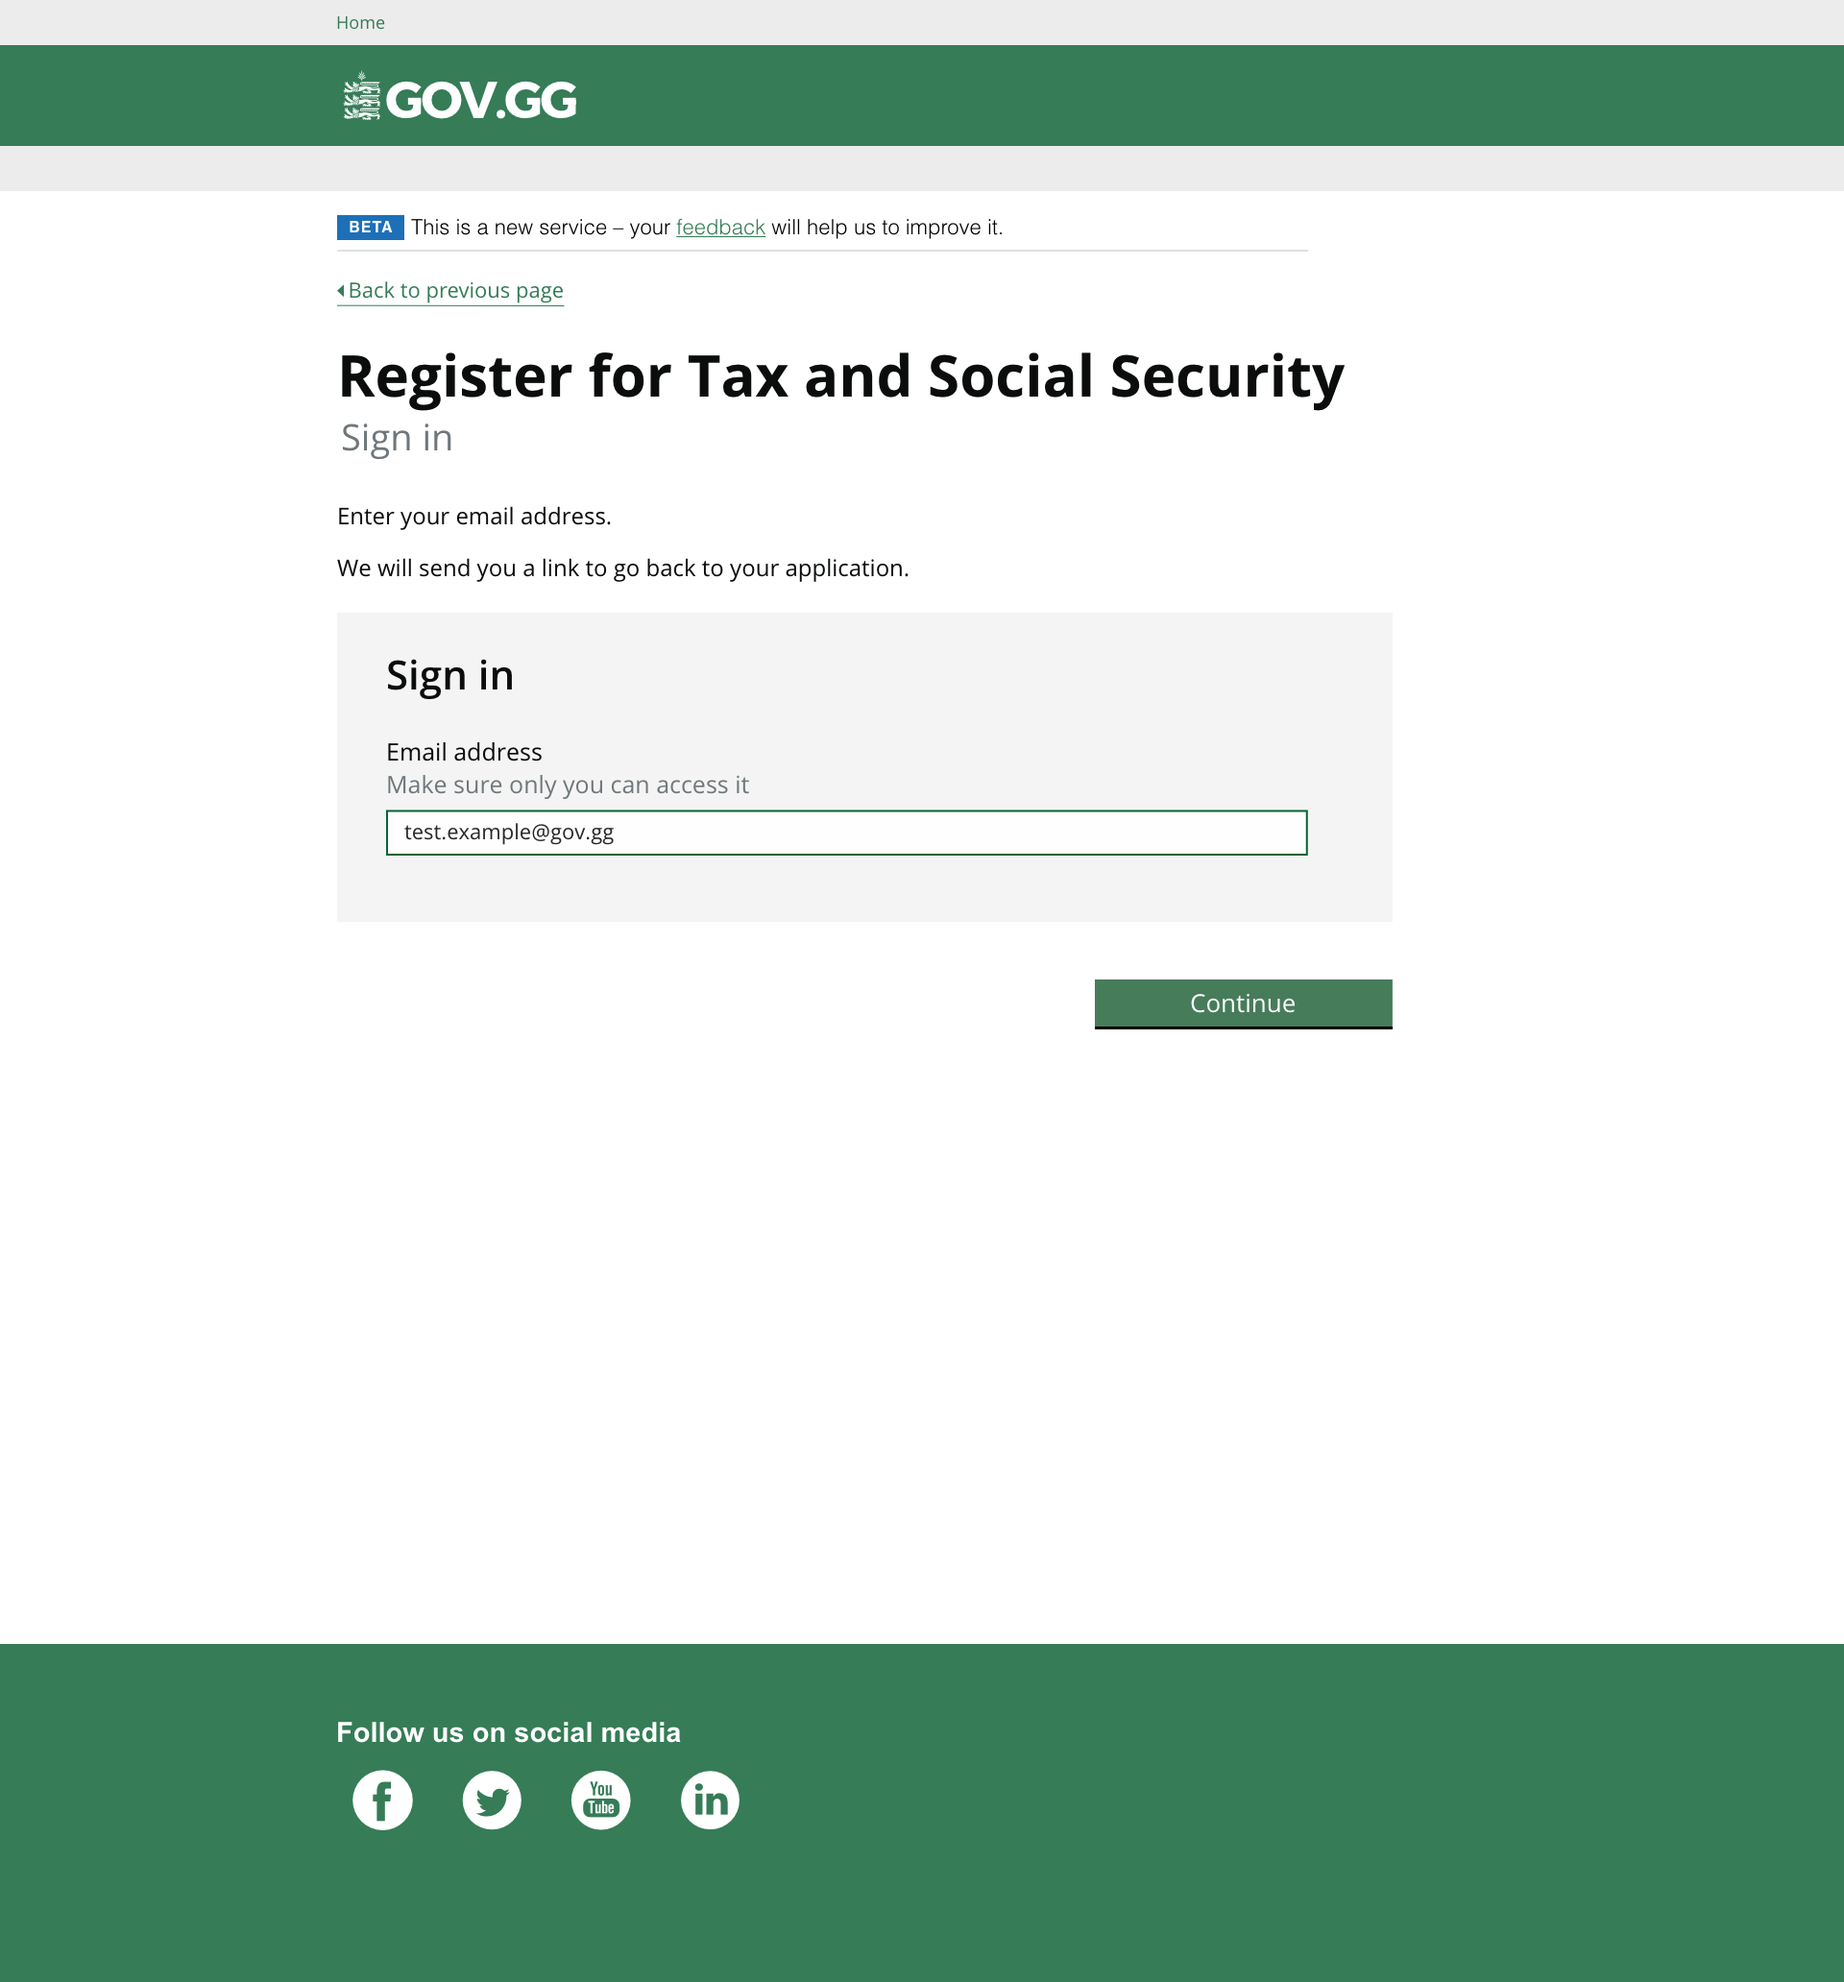
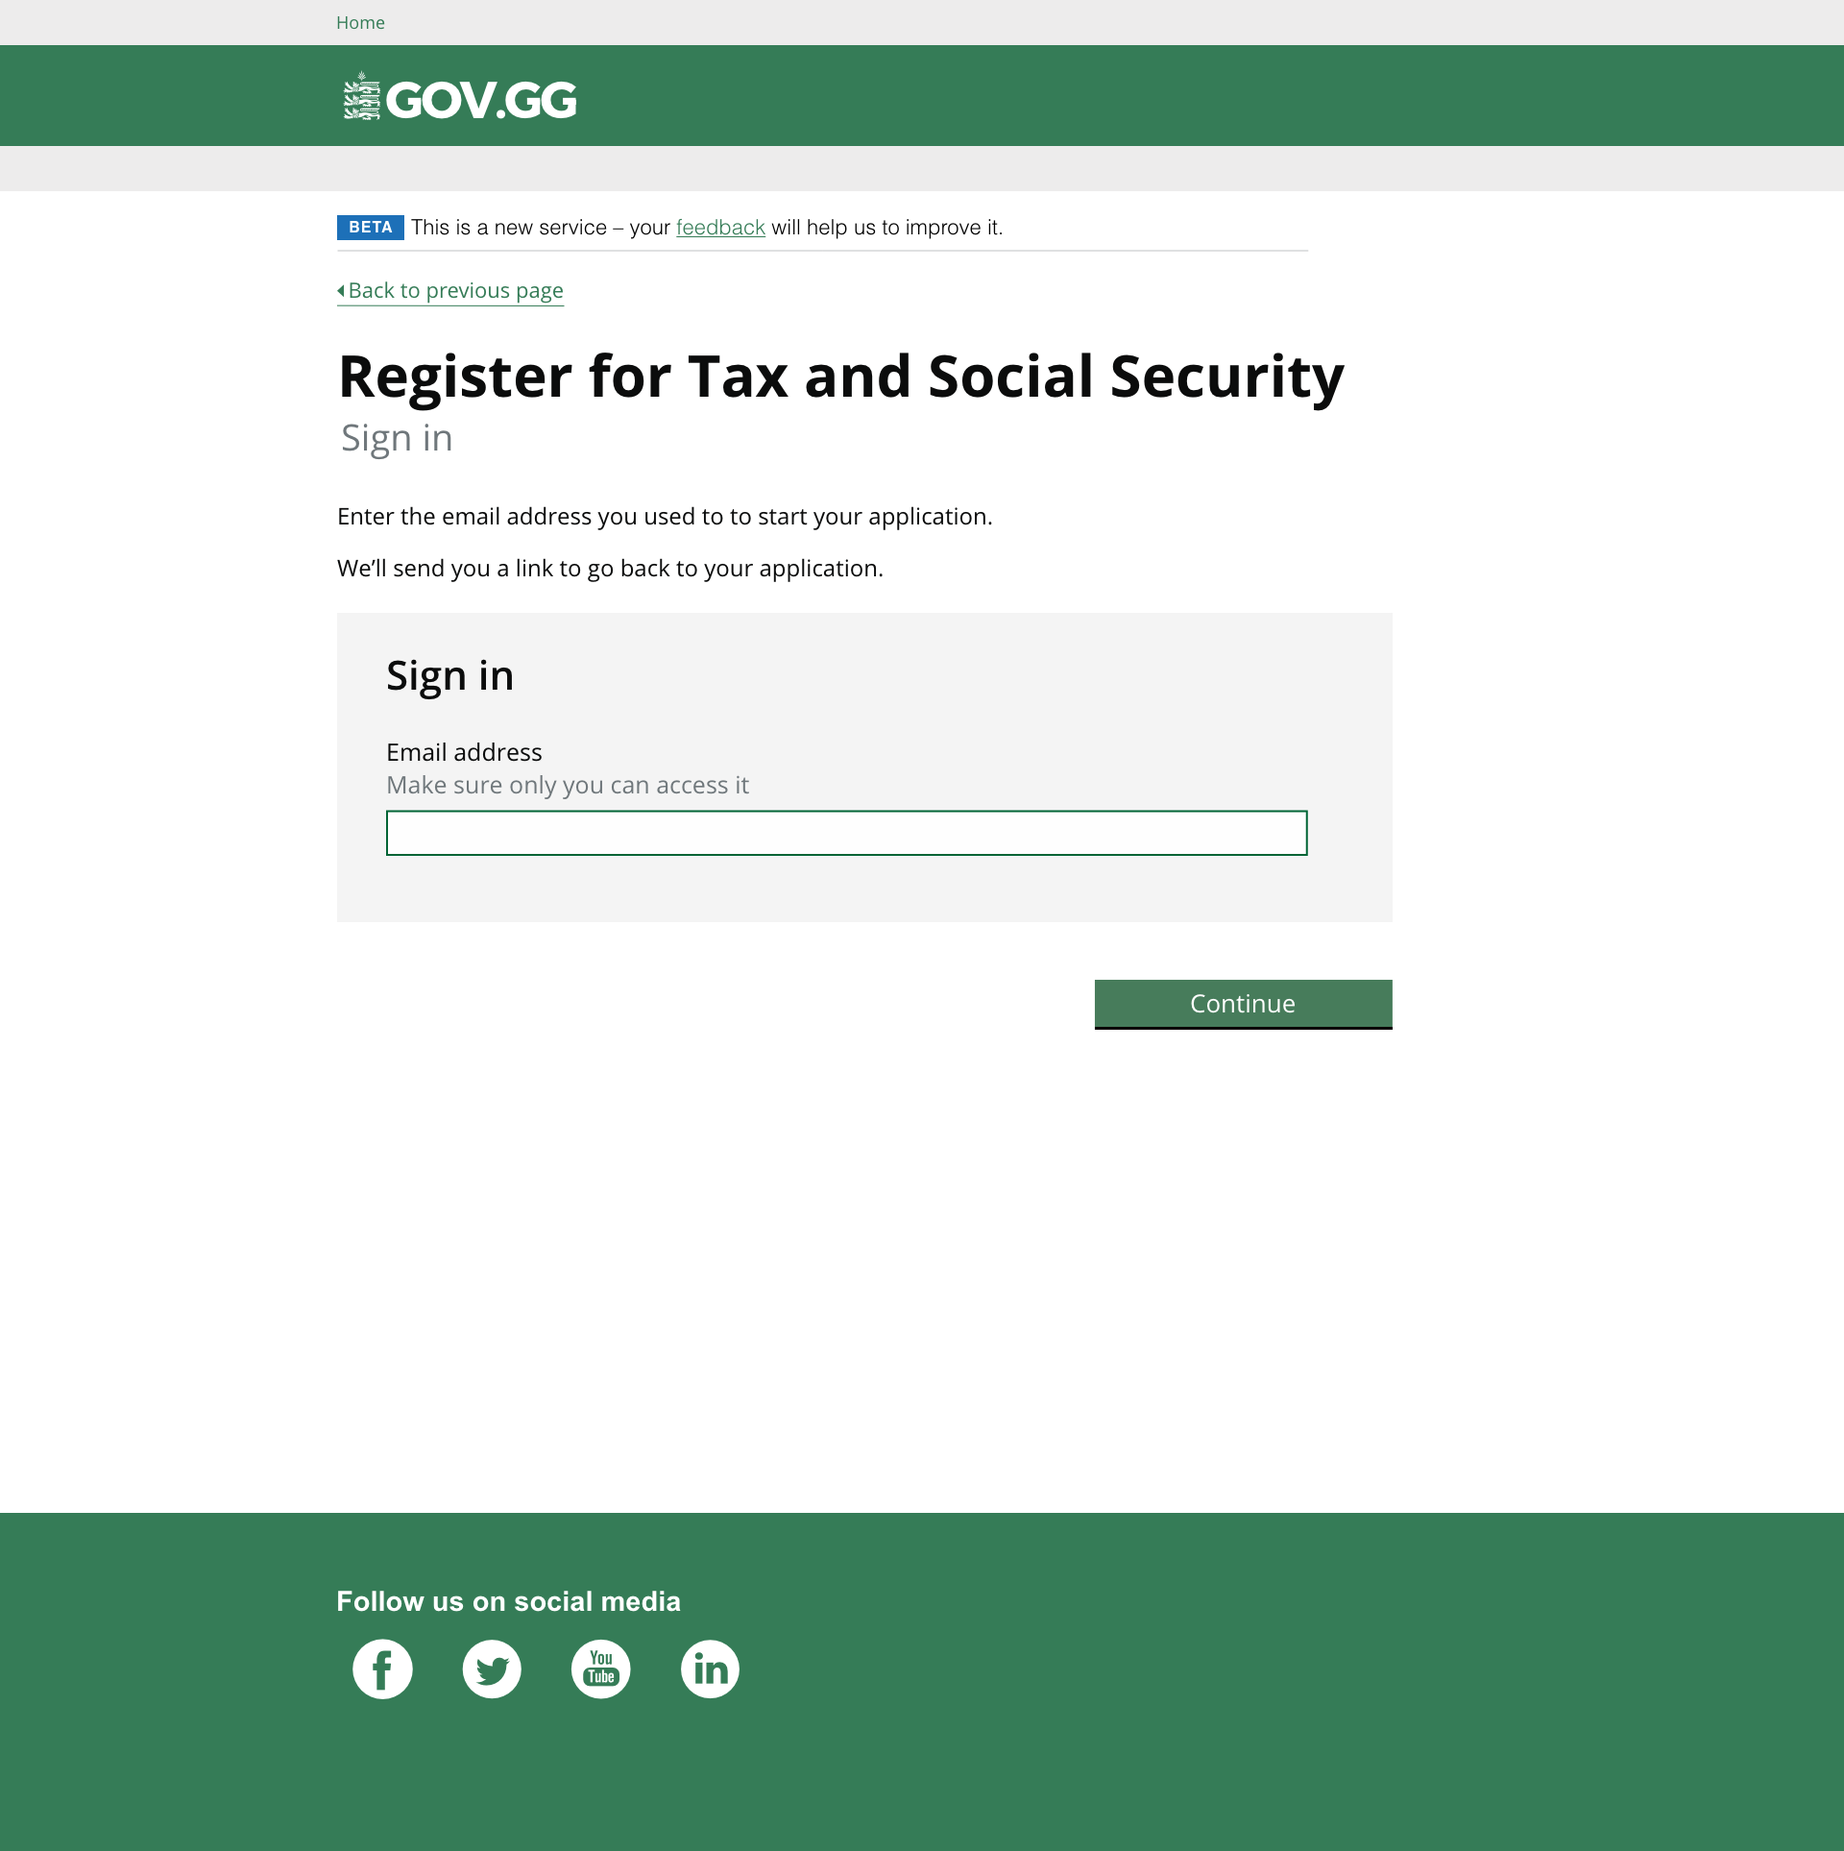
update sign in process

Changed region(s): [[0.0, 0.0, 1.0, 0.4359], [0.0, 0.8095, 1.0, 0.9341], [0.5938, 0.467, 0.7812, 0.5605]]

diff --git a/exemplar/1/data.js b/exemplar/1/data.js
@@ -114,19 +114,13 @@ var data = {
       "caption": "Save and come back",
       "imgref": "images/3.task-list.png"
     },{
-      "caption": "Enter your email",
-      "imgref": "images/2.Enter-email-address.png",
+      "caption": "Application saved",
+      "imgref": "images/application_saved.png",
       "note": "REG-CBL-01"
-    },{
-      "caption": "Check your email",
-      "imgref": "images/3.Check-your-email.png"
-    },{
-      "caption": "Link sent",
-      "imgref": "images/4.Link-sent.png"
     }]
   },
   {
-    "title": "Go back to your application",
+    "title": "Go back to your application - sign in, active link",
     "path": [{
       "caption": "Start page",
       "imgref": "images/1.start-page.png"
@@ -137,14 +131,57 @@ var data = {
       "caption": "Sign in",
       "imgref": "images/3.sign-in.png",
     },{
-      "caption": "Link sent",
-      "imgref": "images/link-sent-v0.3.png"
+      "caption": "Check email",
+      "imgref": "images/check_email.png"
     },{
-      "caption": "Email resent",
-      "imgref": "images/5.email-resent.png"
+      "caption": "Link sent",
+      "imgref": "images/link_sent.png"
+    },{
+      "caption": "Link resent",
+      "imgref": "images/link_resent.png"
+    },{
+      "caption": "Sign in email",
+      "imgref": "images/Sign_up_email.png"
+    },{
+      "caption": "Check link active",
+      "imgref": "images/Check_link_active.png"
+    },{
+      "caption": "Task list",
+      "imgref": "images/3.task-list.png"
     }]
-  },
-  {
+    },
+    {
+      "title": "Go back to your application - sign in, inactive link",
+      "path": [{
+        "caption": "Start page",
+        "imgref": "images/1.start-page.png"
+      },{
+        "caption": "Go back to application",
+        "imgref": "images/2.Go-back-to-application.png"
+      },{
+        "caption": "Sign in",
+        "imgref": "images/3.sign-in.png",
+      },{
+        "caption": "Check email",
+        "imgref": "images/check_email.png"
+      },{
+        "caption": "Link sent",
+        "imgref": "images/link_sent.png"
+      },{
+        "caption": "Link resent",
+        "imgref": "images/link_resent.png"
+      },{
+        "caption": "Sign in email",
+        "imgref": "images/Sign_up_email.png"
+      },{
+        "caption": "Check link active",
+        "imgref": "images/Check_link_active.png"
+      },{
+        "caption": "Link already used",
+        "imgref": "images/link_already_used.png"
+      }]
+      },
+      {
     "title": "Tell us about you - single person, doesn't claim family allowance",
     "path": [{
       "caption": "Task list",
